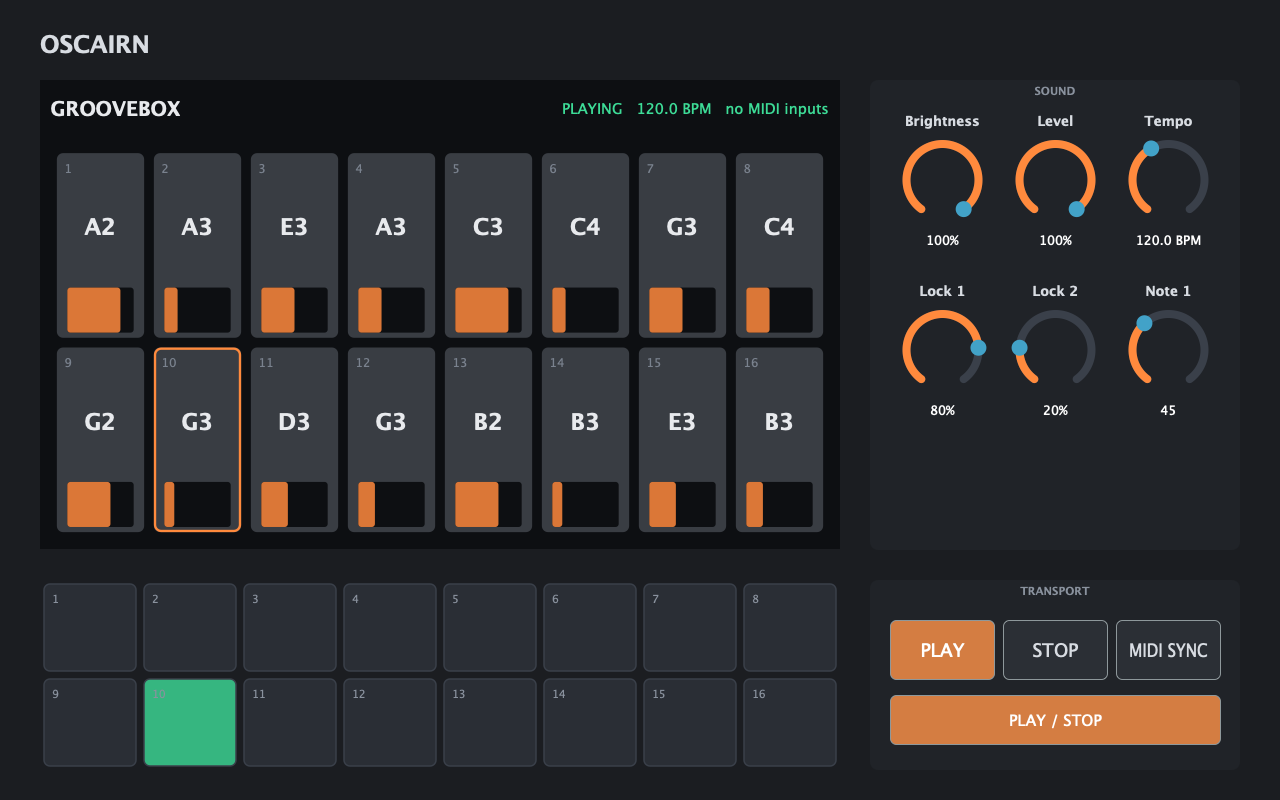
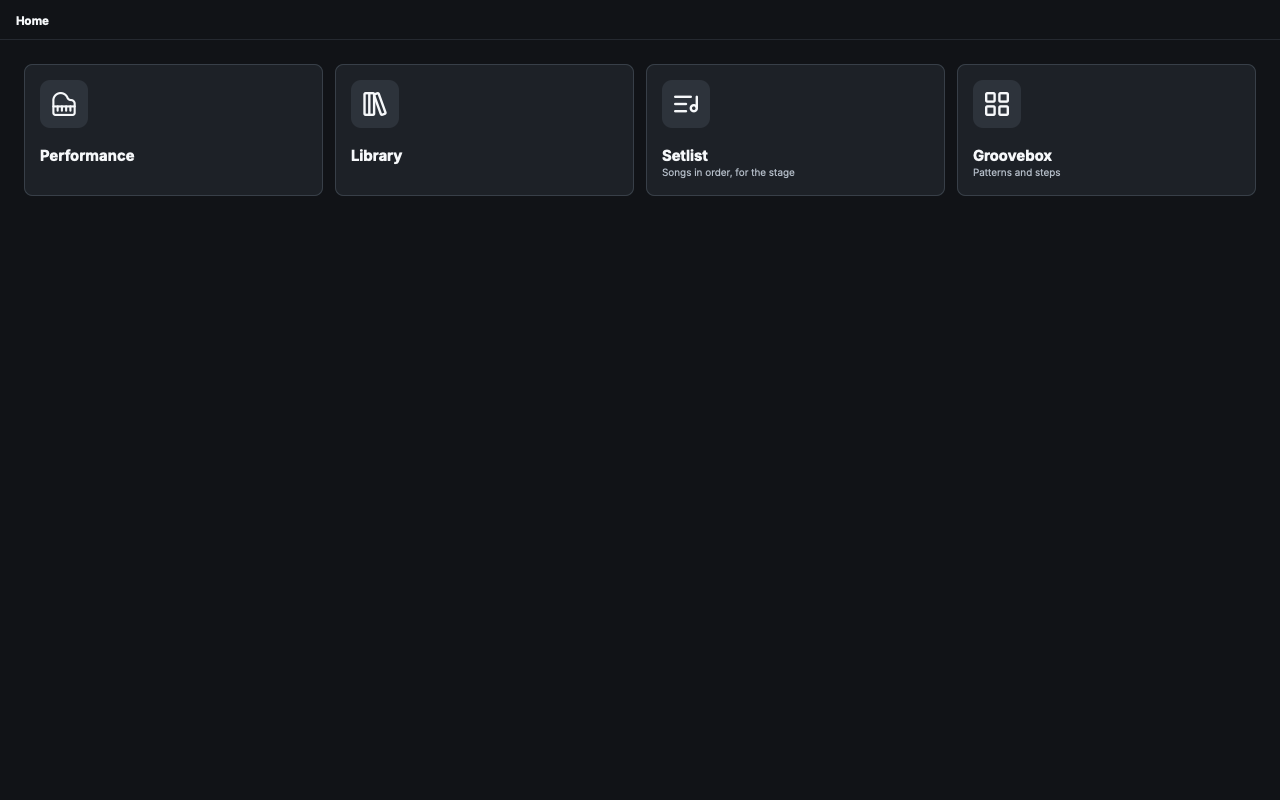
Docs: running on a KICK or an emulator; README status and layouts
docs/kick.md says what exists for the KICK (an estimated profile, two
layouts, a QEMU image), what to expect and what does not work yet, and
how to try it, including the image's ARMv8.2 build and virt kernel. The
README's status is current and its layout images show Home.

diff --git a/docs/kick.md b/docs/kick.md
@@ -1,0 +1,90 @@
+# Running Oscairn on a KICK or a KICK emulator
+
+Oscairn has not yet run on a KICK or on any i.MX8M Mini board. This page says what exists for
+the KICK today, how to try it on an emulator, and what to expect, as of November 1, 2026.
+
+## What exists
+
+- **A device profile for the KICK** (`--profile kick`, [RFC 0024](rfcs/0024-device-profiles.md)):
+  [hosts/standalone/profiles/kick.json](../hosts/standalone/profiles/kick.json). Its values are
+  **estimates** (cores, memory, audio, controls, MIDI, network), not measured on a unit. It makes
+  the app fill the display with no title or menu bar, show the KICK's screen layout
+  (`kick-screen`, 1024 × 600), request 128-frame audio blocks, and offer the Library, Setlist
+  and Groovebox apps.
+- **Two layouts:** `kick-screen`, the screen alone as the device shows it, and `kick`, the whole
+  front panel drawn on a computer screen (with the geometry of chillbeast's KickEM simulator
+  board), for trying the KICK's flow on a desktop.
+- **A Linux image** ([os/](../os/README.md)) built with Buildroot for QEMU's generic ARM64
+  machine. It boots straight into Oscairn full screen under X11. It is **not** built for the
+  KICK's board: no i.MX8M Mini kernel or device tree, no display, codec or panel drivers.
+
+## What you see
+
+The app starts at **Home** ([RFC 0030](rfcs/0030-system-shell-launcher-and-navigation.md)): a top
+bar and the apps as tiles.
+
+- **Performance:** plays and edits the open Performance. For now it opens the parts editor
+  (parts, mixer, routing, controls); a live-controls view for playing comes later.
+- **Library:** Performances and Sounds, by source and tags, with audition.
+- **Setlist:** songs in order, for the stage.
+- **Groovebox:** the step sequencer (two tracks, A/B patterns, per-step locks).
+
+On the `kick-screen` layout (no buttons around the screen), each app's top bar has a Home icon.
+On the `kick` layout, the panel's **MAIN** button goes Home, so the screen shows no Home icon;
+**BACK** goes Home too for now (every app's top screen is one level down; going back within an
+app is the app's own). The demo session plays the step
+sequencer through the Basic Synth and the Delay.
+
+## What does not work yet
+
+- **The KICK's physical controls:** no driver reads its pads, encoders or buttons (its panel
+  protocol is not implemented). On a device or an emulator, what works is what Linux sees: the
+  touchscreen as a pointer, MIDI inputs ALSA lists (every one plays), and a mouse or keyboard. On a computer, the `kick` layout's
+  drawn controls work with the mouse.
+- **The KICK's audio codec, display and touch controller:** nothing is specific to them; the app
+  uses what ALSA and X11 provide. It opens ALSA's default device; the profile asks for
+  128-frame blocks, the device may choose another size (the log says which), and the profile's
+  sample rate is not applied yet.
+- **Live controls in the Performance app, the system shell's full top bar, quick settings and
+  the running-apps switcher:** designed in RFC 0030, not built.
+- **Measured CPU and memory budgets on the KICK:** the budget comes from the profile's estimates.
+
+## Running it
+
+### On your emulator's own Linux
+
+If the emulator runs an ARM64 Linux with X11 and ALSA, build Oscairn there or cross-compile it,
+then start the app with the KICK's profile:
+
+```sh
+cmake -S . -B build-app -G Ninja -DCMAKE_BUILD_TYPE=RelWithDebInfo -DOSCAIRN_STANDALONE=ON
+ninja -C build-app oscairn_standalone
+build-app/hosts/standalone/oscairn_standalone_artefacts/RelWithDebInfo/Oscairn --profile kick
+```
+
+The app starts its audio engine (`oscairn-engine`, beside it) and keeps it running if the UI
+exits; see [launching](../hosts/README.md#launching). It loads the demo plugins from the build
+tree, or from `--plugins DIR`. A native Linux build of the desktop app is untested; the image's
+cross-compiled build is the tested Linux path.
+
+### With the Oscairn image
+
+`os/build.sh` builds the QEMU image (needs Docker; see [os/](../os/README.md)). To use the
+KICK's profile, set `OSCAIRN_ARGS="--profile kick"` in `/etc/default/oscairn` (in the image's
+overlay, `os/buildroot/board/common/session-juce-x11/etc/default/oscairn`, before building).
+
+Two things to change for an emulator of the KICK's hardware, neither tried yet:
+
+- **The CPU:** the image is built for Cortex-A76/A55 (`BR2_cortex_a76_a55` in
+  `os/buildroot/configs/oscairn_qemu_aarch64_defconfig`), which is ARMv8.2. The KICK's Cortex-A53
+  is ARMv8.0, so those binaries may stop with an illegal instruction there. Set `BR2_cortex_a53=y`
+  instead to build for it.
+- **The kernel:** the image's kernel is configured for QEMU's `virt` machine. An emulator that
+  models the i.MX8M Mini needs a kernel and device tree for that SoC.
+
+## What to report
+
+The session logs to `/var/log/oscairn.log` (the app and engine) and `/var/log/oscairn-xorg.log`.
+Useful to know: whether the app reaches Home, the audio block size it reports, whether touch
+reaches the app, whether the demo plays without dropouts, and the `budget.estimate` the
+[control API](control-protocol.md) gives for the open Performance.

diff --git a/README.md b/README.md
@@ -10,16 +10,24 @@ Oscairn is an independent, unofficial project. It is not affiliated with or endo
 Behringer, Klark Teknik or Music Tribe. KICK is a product of Klark Teknik; the name is used
 here only to describe compatibility.
 
-> **Status:** early. What runs today: a graph of CLAP plugins (for example a sequencer
-> playing a synth through a delay, with per-step parameter locks), sample-accurately,
-> following its own tempo or an external MIDI clock, rendered offline to a WAV file, and a
-> desktop demo app with live audio, MIDI input and switchable panel layouts, and a Linux
-> image that boots into Oscairn (tested in QEMU, [`os/`](os/README.md)). Optional LV2 hosting
-> supports mixed CLAP/LV2 graphs with audio, controls, MIDI/time atoms, Worker, plugin
-> state/presets and scalar patch properties. The control API supports prepared sounds,
-> state export, preset enumeration and typed property access. Versioned JSON
-> [Performance folders](docs/performance-format.md) save/reopen graphs, prepared sounds and effects. Transpose and MIDI delay
-> are included as reference plugins. No AU/VST3, patch library or real-hardware image yet.
+> **Status:** early, and moving quickly (November 2026). What runs today:
+>
+> - a graph of CLAP plugins, with optional LV2, played sample-accurately live or rendered
+>   offline, following its own tempo or an external MIDI clock, with plugins isolated in
+>   worker processes on macOS;
+> - **Performances** of parts and buses (splits, layers, sends, scenes with transitions,
+>   controls such as Super Knobs, undo), saved as [folders](docs/performance-format.md) and
+>   changed seamlessly while notes and tails ring out;
+> - a **library** of Performances and Sounds with tags, favorites, editing, audition, and
+>   installable or exportable [archives](docs/library-archive.md);
+> - **resource budgets** measured on the device, refusing what would not fit;
+> - a **desktop app** that starts at Home, with the Performance, Library, Setlist and
+>   Groovebox apps, themes, and the panel layouts of the KICK, the Ignite and a 49-key
+>   keyboard; and **device profiles** that make it a device's screen;
+> - a **Linux image** that boots into it, tested in QEMU ([`os/`](os/README.md)).
+>
+> Not yet: running on a real device's board (see [running on a KICK](docs/kick.md)), its
+> panel's physical controls, VST3 and AU hosting, and most of the system shell's top bar.
 
 See the [roadmap](docs/roadmap.md) for implementation status and planned work.
 For plugins, controllers and integrations, start with the [developer guide](docs/developer-guide.md)
@@ -32,7 +40,8 @@ Needs CMake 3.21+, Ninja and a C++20 compiler (on macOS: Xcode command line tool
 
 ### The desktop app
 
-Builds the demo groovebox and starts it. The first build downloads JUCE 9.0.4 and takes a
+Builds the app and starts it at Home: tap Performance to play and edit the open Performance,
+or the Library, Setlist or Groovebox. The first build downloads JUCE 9.0.4 and takes a
 few minutes. Tested on macOS; the Linux build is untested so far.
 
 ```bash
@@ -48,8 +57,9 @@ panel layouts in the View menu, or start with one:
 open build-app/hosts/standalone/oscairn_standalone_artefacts/RelWithDebInfo/Oscairn.app --args --layout kick
 ```
 
-Options: `--layout desktop|kick|keys49|file.json`, and `--snapshot out.png [--size WxH]
-[--play SECONDS]` to render the panel to a PNG and quit. Layouts are described in
+Options: `--layout desktop|kick|kick-screen|ignite|keys49|file.json`, `--profile kick` (a
+device's screen, full screen; see [running on a KICK](docs/kick.md)), and `--snapshot out.png
+[--size WxH] [--play SECONDS]` to render the window to a PNG and quit. Layouts are described in
 [hosts/standalone/layouts](hosts/standalone/layouts/README.md).
 
 The display's sound picker prepares Basic Synth variations (or a loaded instrument's
@@ -68,14 +78,14 @@ plugins; there is no graphical plugin browser yet.
 ### Panel layouts
 
 The same engine runs behind every layout; the View menu or `--layout` switches between
-them. Captured with `--snapshot` while playing.
+them. Each starts at Home. Captured with `--snapshot`.
 
 **Desktop** (`desktop`): stretches to any window shape.
 
 ![Desktop layout](docs/images/layouts/desktop.png)
 
-**KICK** (`kick`), with the geometry of chillbeast's KickEM simulator board, and the KICK's
-screen alone (`kick-screen`), as the device shows it:
+**KICK** (`kick`), with the geometry of chillbeast's KickEM simulator board (MAIN goes Home), and
+the KICK's screen alone (`kick-screen`), as the device shows it:
 
 ![KICK layout](docs/images/layouts/kick.png)
 
